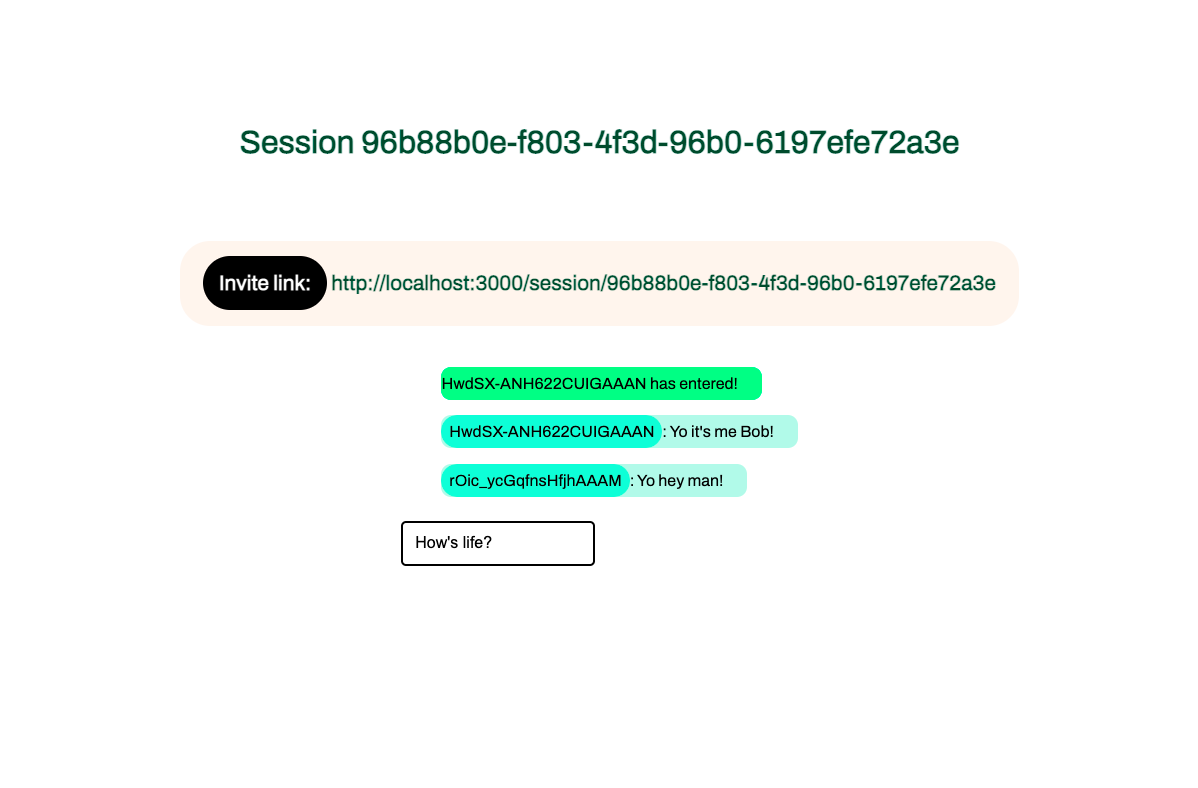
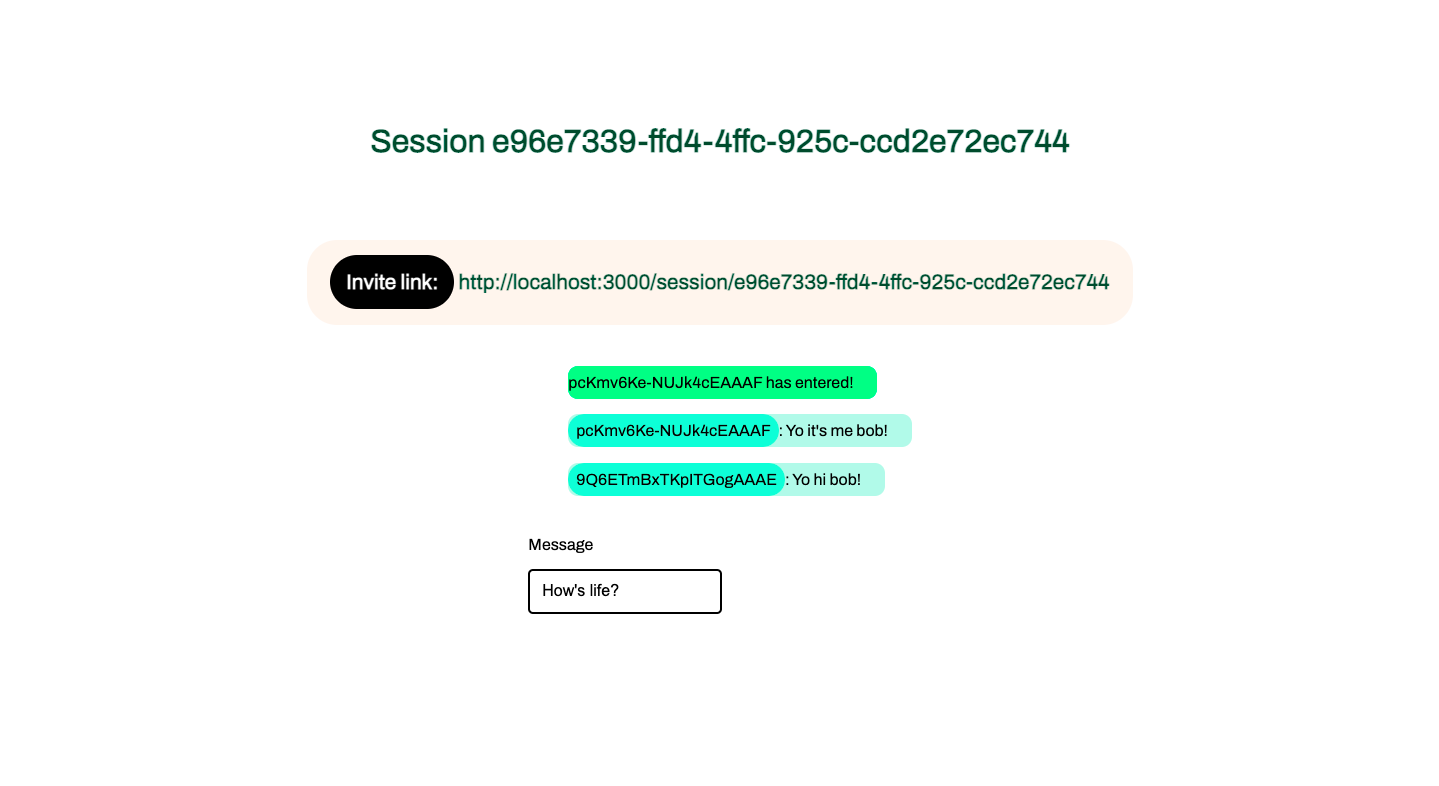
Update readme and add disconnect alert

Changed region(s): [[0.3397, 0.458, 0.6795, 0.7634], [0.1853, 0.1527, 0.803, 0.2137], [0.1544, 0.3053, 0.8339, 0.3969]]

diff --git a/server/handler/SessionSocketHandler.ts b/server/handler/SessionSocketHandler.ts
@@ -25,6 +25,7 @@ class SessionSocketHandler {
    */
   public static connect() {
     this.io.on("connection", socket => {
+      const message = "User has left the chat."
       socket.emit(CONNECT_EVENT, SessionsRepository.getSessions);
 
       this.createSessionRequestListener(socket);
@@ -32,7 +33,14 @@ class SessionSocketHandler {
       this.leaveSessionRequestListener(socket);
       this.listSessionDataRequestListener(socket);
 
-      socket.on("disconnect", socket.removeAllListeners);
+      socket.on("disconnect", () => {
+        console.log("IN DISCONNECT");
+        this.io.emit(NEW_MESSAGE, {
+          message: message,
+          senderId: socket.id,
+          chatId: uuid()
+        });
+      });
     });
   }
 

diff --git a/pages/session/[id].tsx b/pages/session/[id].tsx
@@ -103,6 +103,7 @@ const SessionIn: NextPage<Props> = props => {
           })}
           <li className="chat-container" ref={chatContainerRef}></li>
         </ul>
+        <p className="msg-title">Message</p>
         <input className="msg-input" type="text" onChange={e => setMessage(e.target.value)} value={message} onKeyDown={sendMessage}/>
       </div>
     </div>

diff --git a/pages/index.module.scss b/pages/index.module.scss
@@ -46,6 +46,10 @@ $archivo-slab: 'Archivo', sans-serif;
     list-style-type: none;
     font-family: $archivo-slab;
 }
+.msg-title {
+    font-family: $archivo-slab;
+    font-size: 1em;
+}
 .li-text {
     list-style-type: none;
     font-family: $archivo-slab;

diff --git a/README.md b/README.md
@@ -10,4 +10,5 @@ npm run dev
 <img src="./readme-assets/join-page.png">
 <img src="./readme-assets/all-sessions.png">
 <img src="./readme-assets/session-page.png">
+<img src="./readme-assets/session-user-left.png">
 
